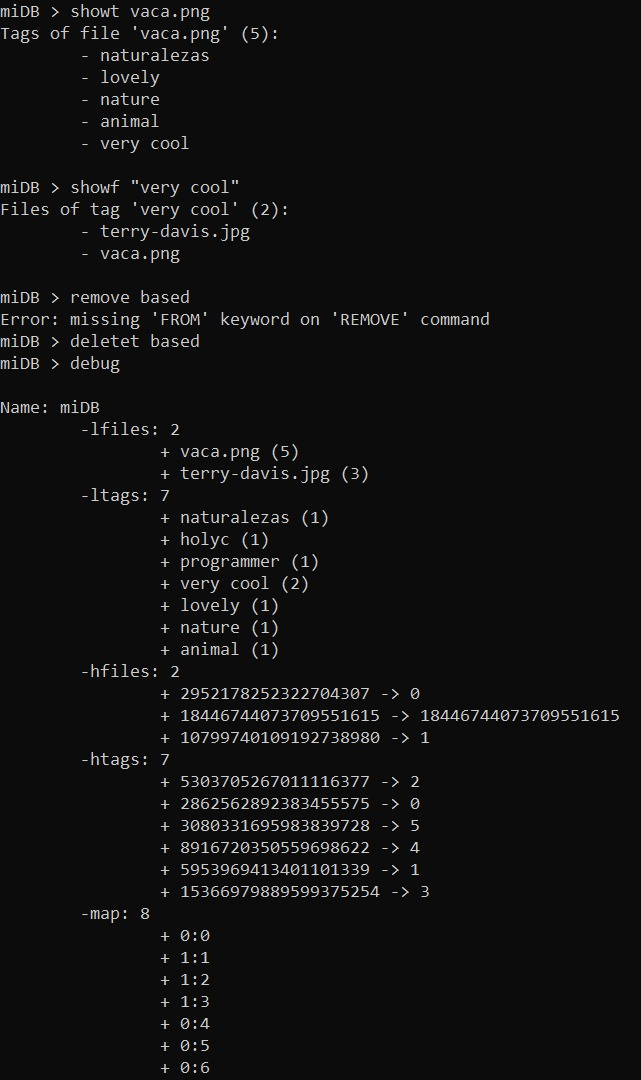
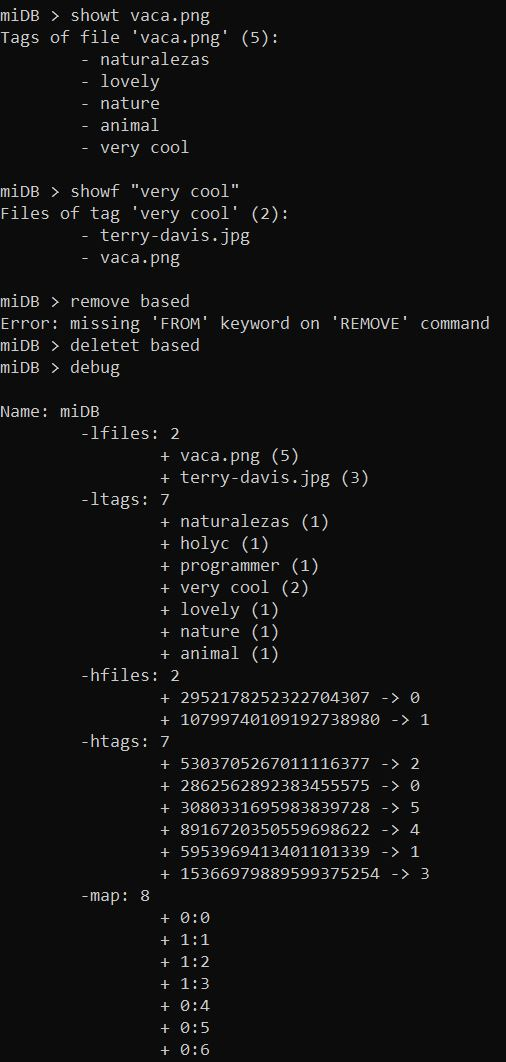
Updated README and fixed error on example images. Removed deleted dependencies. Fixed AVL tree bug.

diff --git a/src/main.c b/src/main.c
@@ -6,26 +6,32 @@ int main(){
 
 
 	inputBuffer *in = newInputBuffer();
-	/*database *test = newDatabase("miDB");
 	
+	/*database *test = newDatabase("miDB");
 	addFileTag(test, "vaca.png", "naturalezas");	
 	addFileTags(test, "terry-davis.jpg", 3, "holyC", "programmer", "very cool");
 	addFileTag(test, "vaca.png", "lovely");
 	addFileTags(test, "vaca.png", 3, "nature", "animal", "very cool");
 	addFileTag(test, "terry-davis.jpg", "based");
+	
+	printDatabase(test);
+
+	debugDatabase(test);
 
 	storeDatabase(test, "db.db");
+	
+	test = loadDatabase("db.db");
 
-	printDatabase(db);
+	printDatabase(test);
 
-	debugDatabase(db);
+	debugDatabase(test);
 	
 	uint64_t *l, i;
-	searchFile(db, "terry-davis.jpg", 0, &l, &i);
+	searchFile(test, "terry-davis.jpg", 0, &l, &i);
 	
 	printf("Tags with file 'terry-davis.jpg':\n");
 	for(uint64_t j = 0; j < i; ++j){
-		printf("\t%s\n", db->ltags->table[l[j]]);
+		printf("\t%s\n", test->ltags->table[l[j]]);
 	
 	}*/
 

diff --git a/src/storage.c b/src/storage.c
@@ -504,13 +504,17 @@ int storeAVLTree(tree root, FILE *fp){
 	return 0;
 }
 
-static node *arrayToNodes(uint64_t *array, uint64_t i, uint64_t maxNodes){
-	if(i >= maxNodes*2){
+static node *arrayToNodes(uint64_t *array, uint64_t pos, uint64_t maxNodes){
+	if(pos >= maxNodes*2){
 		return NULL;
 	}
-	node *n = newNode(array[i+0], array[i+1]);
-	n->left = arrayToNodes(array, (2*i + 1)*2, maxNodes);
-	n->right = arrayToNodes(array, (2*i + 2)*2, maxNodes);
+	uint64_t h = array[pos+0], i = array[pos+1];
+	if(h == UINTMAX_MAX && i == UINTMAX_MAX){
+		return NULL;
+	}
+	node *n = newNode(h, i);
+	n->left = arrayToNodes(array, (2*pos + 1)*2, maxNodes);
+	n->right = arrayToNodes(array, (2*pos + 2)*2, maxNodes);
 	return n;
 }
 

diff --git a/include/db.h b/include/db.h
@@ -10,7 +10,6 @@
 #include <stdarg.h>
 
 
-#include "strnatcmp.h"
 #include "crc64.h"
 
 #include "str.h"
@@ -18,6 +17,5 @@
 #include "database.h"
 #include "repl.h"
 #include "parser.h"
-#include "bm.h"
 
 #endif

diff --git a/README.md b/README.md
@@ -6,4 +6,4 @@ Uses a mix of AVL trees and normal arrays to work with the data
 ## Example
 Loading and debugging|Showing and removing tags
 :-------------------------:|:-------------------------:
-![](https://github.com/Soikk/DB/blob/master/multimedia/example1.jpg)  |  ![](https://github.com/Soikk/DB/blob/master/multimedia/example1.jpg)
+![](https://github.com/Soikk/DB/blob/master/multimedia/example1.jpg)  |  ![](https://github.com/Soikk/DB/blob/master/multimedia/example2.jpg)
